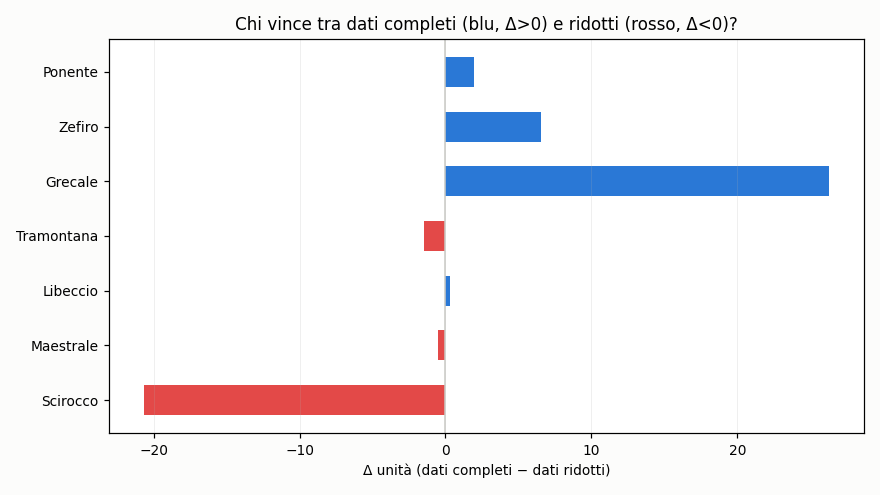
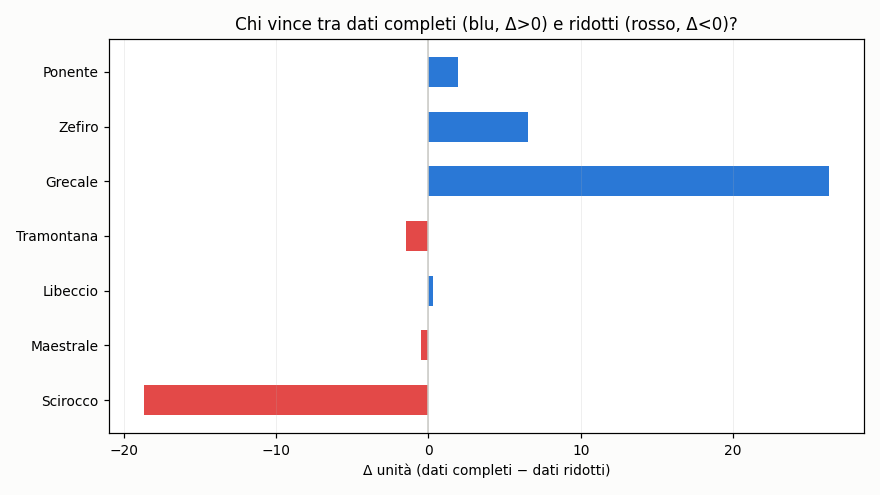
aggiornamento 2026-07-25 19:26 UTC

diff --git a/README.md b/README.md
@@ -37,9 +37,9 @@ scala in unità). Non indichiamo quale.
 
 ## Grafici
 
-![Coppie: dati completi vs ridotti](https://raw.githubusercontent.com/Kitem19/ippica-track-record/main/charts/equity_pairs.png?v=53aba887)
+![Coppie: dati completi vs ridotti](https://raw.githubusercontent.com/Kitem19/ippica-track-record/main/charts/equity_pairs.png?v=2fd9a1ab)
 
-![Delta per coppia](https://raw.githubusercontent.com/Kitem19/ippica-track-record/main/charts/coppie_delta.png?v=a51a91b9)
+![Delta per coppia](https://raw.githubusercontent.com/Kitem19/ippica-track-record/main/charts/coppie_delta.png?v=4f95ea42)
 
 ### Come leggere i grafici
 
@@ -56,7 +56,7 @@ scala in unità). Non indichiamo quale.
 
 _Poche giornate: numeri ancora rumorosi, si conclude a fine fase (31/7)._
 
-- **Scirocco**: dati ridotti avanti di 20,7u — qui gli extra non aiutano
+- **Scirocco**: dati ridotti avanti di 18,7u — qui gli extra non aiutano
 - **Maestrale**: in sostanziale pareggio — troppo presto per dire
 - **Libeccio**: in sostanziale pareggio — troppo presto per dire
 - **Tramontana**: in sostanziale pareggio — troppo presto per dire
@@ -69,12 +69,12 @@ _Poche giornate: numeri ancora rumorosi, si conclude a fine fase (31/7)._
 | Sistema | Cassa (u) | P/L (u) | Selezioni | Escluse | Stato |
 |---|---|---|---|---|---|
 | Grecale | 26,1 | +6,1 | 301 | 4 | 🟢 |
-| Scirocco-B | 20,6 | +0,6 | 227 | 0 | 🟢 |
+| Scirocco-B | 18,6 | -1,4 | 228 | 0 | 🟢 |
 | Zefiro | 6,1 | -13,9 | 261 | 8 | ⏸ |
 | Tramontana-B | 1,2 | -18,8 | 323 | 12 | ⏸ |
 | Ponente | 1,0 | -19,0 | 210 | 28 | 🟢 |
 | Maestrale-B | 0,0 | -20,0 | 100 | 234 | 🛑 |
-| Scirocco | 0,0 | -20,1 | 80 | 248 | 🛑 |
+| Scirocco | 0,0 | -20,1 | 80 | 249 | 🛑 |
 | Grecale-B | 0,0 | -20,2 | 137 | 173 | 🛑 |
 | Tramontana | 0,0 | -20,3 | 45 | 305 | 🛑 |
 | Zefiro-B | 0,0 | -20,5 | 143 | 70 | 🛑 |
@@ -83,7 +83,7 @@ _Poche giornate: numeri ancora rumorosi, si conclude a fine fase (31/7)._
 | Libeccio-B | 0,0 | -20,9 | 119 | 178 | 🛑 |
 | Ponente-B | 0,0 | -21,0 | 63 | 84 | 🛑 |
 
-_Aggiornato: 25/07 21:21_
+_Aggiornato: 25/07 21:26_
 ---
 *Nessuna delle informazioni qui pubblicate costituisce consiglio di gioco.
 Il gioco può causare dipendenza — 18+.*
